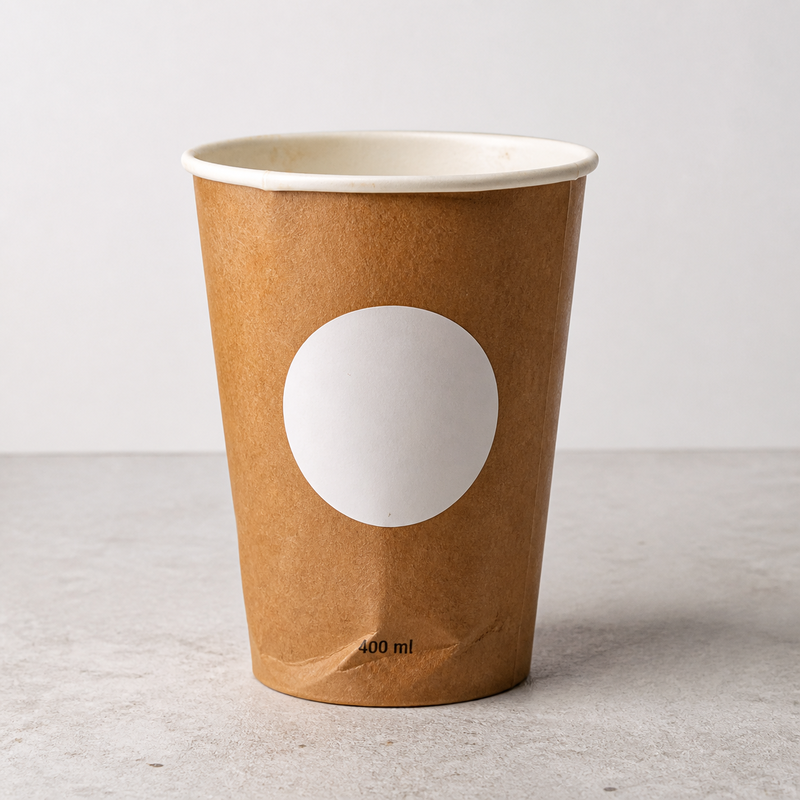
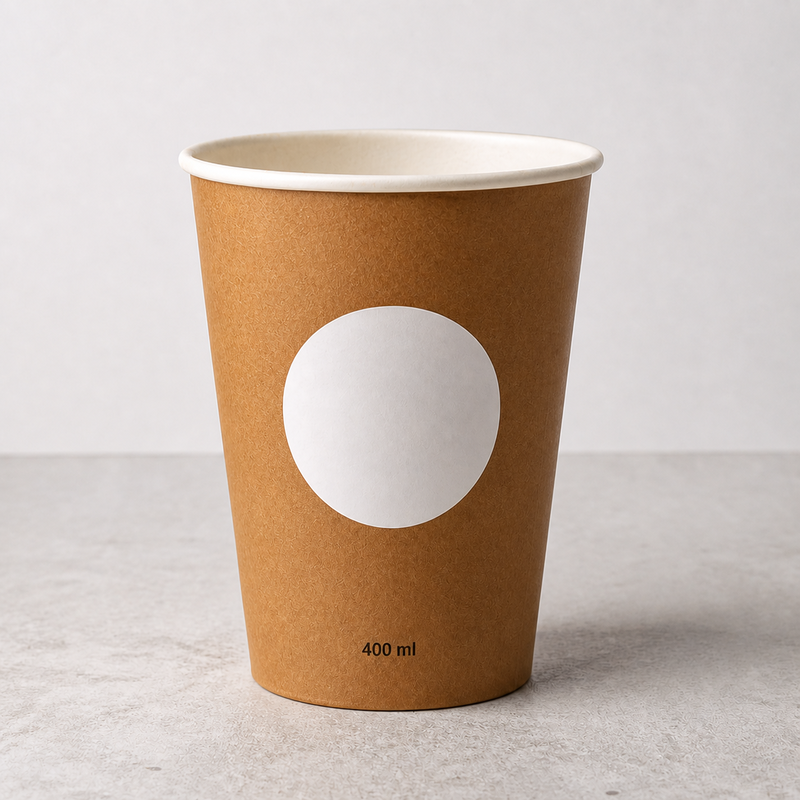
Обновить модель аккаунта и фото для этапа 1

diff --git a/docs/mvp/03-seller-journey.md b/docs/mvp/03-seller-journey.md
@@ -1,16 +1,18 @@
 # Seller Journey — путь производителя
 
-Версия: 1.1 · Дата: 26 августа 2026 · Статус: утверждено (обновлено под план v1.5)
+Версия: 1.2 · Дата: 27 августа 2026 · Статус: утверждено (обновлено под план v1.6)
 
 Производитель — российское юрлицо или ИП с производственной площадкой на территории РФ. Он заполняет Capability Passport, отвечает на подходящие запросы и видит персональные рыночные возможности.
 
-## Шаг 1. Регистрация и вход
+## Шаг 1. Единый аккаунт и режим «Продаю»
 
-Производитель регистрируется с ролью «Производитель».
+Пользователь входит в тот же аккаунт, который может использовать для закупок, включает разрешение `seller` и выбирает режим **«Продаю»**. Второй аккаунт и отдельная регистрация производителя не требуются. Разрешения `buyer` и `seller` могут действовать одновременно.
 
 ## Шаг 2. Профиль компании
 
-Заполняет простой профиль: название, российские реквизиты (ИНН, ОГРН/ОГРНИП, КПП), адрес производственной площадки, регион.
+Заполняет общий профиль компании: название, российские реквизиты (ИНН, ОГРН/ОГРНИП, КПП), юридический адрес, а также производственную часть — адрес площадки и регион. ФИО, email и телефон относятся к аккаунту представителя и не дублируются в данных компании.
+
+До статуса компании `verified` пользователь может подготовить профиль, товары и предложения как черновики. Публикация, подтверждение мощности, резерва и сделки доступны только после ручной проверки синтетических данных администратором.
 
 ## Шаг 3. Товары и характеристики
 

diff --git a/docs/mvp/01-mvp-boundaries.md b/docs/mvp/01-mvp-boundaries.md
@@ -1,6 +1,6 @@
 # Границы MVP
 
-Версия: 1.1 · Дата: 26 августа 2026 · Статус: утверждено (обновлено под план v1.5)
+Версия: 1.2 · Дата: 27 августа 2026 · Статус: утверждено (обновлено под план v1.6)
 
 ## 1. Единственная товарная категория для демо
 
@@ -39,7 +39,11 @@
 
 ## 4. Входит в MVP
 
-- регистрация и вход с ролями «Покупатель», «Производитель», «Администратор»;
+- единый аккаунт пользователя с ФИО, email, хешем пароля, необязательным телефоном и статусом `active` или `blocked`;
+- отдельный профиль российской компании или ИП со статусом проверки `draft`, `pending_review`, `verified` или `rejected`;
+- разрешения `buyer` и `seller`, которые можно включить одновременно, и переключатель режимов «Покупаю / Продаю» без повторной регистрации;
+- отдельное служебное разрешение `marketplace_admin`, которое не выбирается при обычной регистрации;
+- подготовка черновиков до проверки компании и публикация потребностей, товаров и предложений только после статуса `verified`;
 - витрина карточек товаров и предложений производителей;
 - создание потребности обычным языком и единая зона загрузки материалов;
 - локальная расшифровка голоса, OCR фото и документов;
@@ -97,3 +101,4 @@
 | Малый покупатель ниже MOQ | 5 000 шт. против MOQ 50 000 шт. |
 | Совместимая потребность для объединения | 45 000 шт. (итого партия 50 000 шт.) |
 | Число сценариев сбоя | 3 (N-1, N-2, дефицит резерва) + проверка выхода участника коалиции |
+| Модель учётной записи | один аккаунт, отдельная компания, разрешения `buyer`/`seller` и переключатель «Покупаю / Продаю» |

diff --git a/docs/mvp/06-prototype-ready-criteria.md b/docs/mvp/06-prototype-ready-criteria.md
@@ -1,6 +1,6 @@
 # Критерии «прототип готов»
 
-Версия: 1.1 · Дата: 26 августа 2026 · Статус: утверждено (обновлено под план v1.5)
+Версия: 1.2 · Дата: 27 августа 2026 · Статус: утверждено (обновлено под план v1.6)
 
 Прототип считается готовым к конкурсной подаче, если выполняются все перечисленные критерии. Критерии проверяются на сквозном демонстрационном сценарии, а не на отдельных изолированных экранах.
 
@@ -8,9 +8,9 @@
 
 1. Прототип запускается на новой машине по README одной командой (Docker Compose), без ручного исправления кода.
 2. Все контейнеры проходят health check.
-3. Покупатель, производитель и администратор могут войти под своими ролями.
-4. Покупатель проходит путь от загрузки «улик» до подтверждения сделки.
-5. Полная демонстрация занимает 4–6 минут.
+3. Пользователь регистрирует единый аккаунт с ФИО, создаёт или заполняет компанию, включает разрешения `buyer` и `seller` и переключается между режимами «Покупаю / Продаю» без повторной регистрации; `marketplace_admin` нельзя выбрать самостоятельно.
+4. До проверки компании пользователь может подготовить черновики, но не публиковать их; после ручного статуса `verified` он проходит путь покупателя от загрузки «улик» до подтверждения сделки и может создать карточку товара в режиме «Продаю».
+5. Состояния аккаунта, разрешения и статус проверки компании сохраняются между входами; полная демонстрация занимает 4–6 минут.
 
 ## Работа агента-расследователя
 

diff --git a/docs/mvp/04-admin-demo.md b/docs/mvp/04-admin-demo.md
@@ -1,6 +1,6 @@
 # Администраторская демонстрация
 
-Версия: 1.1 · Дата: 26 августа 2026 · Статус: утверждено (обновлено под план v1.5)
+Версия: 1.2 · Дата: 27 августа 2026 · Статус: утверждено (обновлено под план v1.6)
 
 Администраторская часть демонстрирует, что происходит «под капотом», и управляет тестовым окружением. Это важно для жюри конкурса: показывается не только интерфейс, но и объяснимость и контроль системы.
 
@@ -8,9 +8,11 @@
 
 Кабинет администратора показывает состояние системы: запущенные сервисы, активные сделки, агентные процессы.
 
-## 2. Управление тестовыми пользователями и данными
+## 2. Управление аккаунтами, компаниями и тестовыми данными
 
-Администратор создаёт и сбрасывает синтетических пользователей, производителей, документы и сценарии перед демонстрацией.
+Администратор создаёт и сбрасывает синтетические аккаунты, компании, документы и сценарии перед демонстрацией. Он видит ФИО представителя, разрешения `buyer`/`seller`, статус аккаунта и отдельный статус проверки компании.
+
+Для демонстрационной проверки администратор вручную переводит компанию из `pending_review` в `verified` либо `rejected` с причиной. Разрешение `marketplace_admin` заранее выдаётся участникам команды и не доступно пользователю при обычной регистрации.
 
 ## 3. Запуск агентного сценария
 

diff --git a/docs/mvp/02-buyer-journey.md b/docs/mvp/02-buyer-journey.md
@@ -1,10 +1,16 @@
 # Buyer Journey — путь покупателя
 
-Версия: 1.1 · Дата: 26 августа 2026 · Статус: утверждено (обновлено под план v1.5)
+Версия: 1.2 · Дата: 27 августа 2026 · Статус: утверждено (обновлено под план v1.6)
 
 Покупатель не обязан знать название товара, артикул, отраслевые термины или классификацию. Он описывает задачу обычным языком и прикладывает «улики».
 
-## Шаг 1. Вход и главный экран
+## Шаг 1. Регистрация, компания и вход в режим «Покупаю»
+
+Пользователь создаёт единый аккаунт: указывает ФИО, email, пароль и при желании телефон. После входа он создаёт или заполняет профиль российской компании или ИП и включает разрешение `buyer`; при необходимости в том же аккаунте можно одновременно включить `seller`.
+
+До проверки компании пользователь может просматривать открытую витрину и готовить черновик потребности. Публикация потребности и подтверждение сделки становятся доступны после ручного перевода компании администратором в статус `verified`.
+
+Пользователь выбирает в кабинете режим **«Покупаю»**. Переключение в режим **«Продаю»** не создаёт второй аккаунт и не меняет компанию.
 
 Главный экран разделён на два понятных раздела:
 

diff --git a/docs/mvp/05-screens.md b/docs/mvp/05-screens.md
@@ -1,13 +1,13 @@
 # Утверждённый список экранов
 
-Версия: 1.1 · Дата: 26 августа 2026 · Статус: утверждено (обновлено под план v1.5)
+Версия: 1.2 · Дата: 27 августа 2026 · Статус: утверждено (обновлено под план v1.6)
 
 Правила UX: один экран — одно основное решение; максимум три основных действия; обычный русский язык; значения можно исправить вручную; последствия объясняются до подтверждения; критичные изменения требуют явного подтверждения.
 
 ## Общие
 
-1. Вход / регистрация
-2. Выбор роли (после входа, если ролей несколько)
+1. Вход / регистрация единого аккаунта (ФИО, email, пароль, необязательный телефон)
+2. Профиль и статус проверки компании; включение разрешений `buyer`/`seller`; переключатель «Покупаю / Продаю»
 
 ## Покупатель
 
@@ -61,7 +61,7 @@
 | # | Экран |
 | --- | --- |
 | 40 | Кабинет администратора (обзор) |
-| 41 | Управление тестовыми пользователями и данными |
+| 41 | Управление тестовыми аккаунтами и компаниями; ручная проверка компании (`pending_review` → `verified`/`rejected`) |
 | 42 | Запуск агентного сценария |
 | 43 | Просмотр взаимодействия агентов |
 | 44 | Журнал решений и источников данных |

diff --git a/packages/test-fixtures/buyer-evidence/photo/photo-description.md b/packages/test-fixtures/buyer-evidence/photo/photo-description.md
@@ -8,7 +8,7 @@
 - корпус крафтового (коричневого) цвета;
 - белый ободок сверху;
 - по центру — белый логотип: круг с надписью «LOGO»;
-- в нижней части корпуса частично видна маркировка «400 ml»;
+- в нижней части корпуса видна маркировка «400 ml»;
 - крышка отсутствует.
 
 Что должно извлечь зрение модели (ожидаемые визуальные признаки):
@@ -16,5 +16,5 @@
 - класс: бумажный стакан (одноразовая посуда);
 - цвет корпуса: крафтовый;
 - наличие печати/логотипа: есть, белого цвета;
-- маркировка объёма: «400 ml» (частично читаемая);
+- маркировка объёма: «400 ml» (читаемая);
 - точный материал и тип покрытия по фото не определяются (гипотеза, а не подтверждение).

diff --git a/docs/demo/buyer-evidence-kit.md b/docs/demo/buyer-evidence-kit.md
@@ -6,7 +6,7 @@
 
 | Материал | Файл | Что содержит |
 | --- | --- | --- |
-| Фото образца | `buyer-evidence/photo/sample-cup.png` | старый крафтовый стакан с белым логотипом, маркировка «400 ml» частично видна |
+| Фото образца | `buyer-evidence/photo/sample-cup.png` | целый крафтовый стакан с белым обезличенным логотипом и маркировкой «400 ml» |
 | Техническое задание | `buyer-evidence/tz-technical-specification.md` | требования: 400 мл, покрытие PE, полноцветная печать |
 | Старая накладная | `buyer-evidence/nakladnaya-previous-supplier.md` | прошлая поставка: 350 мл, покрытие PLA, печать 1+0 |
 | Голосовое сообщение | `buyer-evidence/voice-message.m4a` | аудиозапись: 120 000 шт., Москва, 10 дней, бюджет до 1,9 млн ₽ |

diff --git a/docs/mvp/README.md b/docs/mvp/README.md
@@ -1,6 +1,6 @@
 # Этап 1 — Границы MVP и пользовательские сценарии
 
-Материалы этого каталога фиксируют границы MVP, пути пользователей и критерии готовности прототипа.
+Материалы этого каталога фиксируют границы MVP, пути пользователей и критерии готовности прототипа. Пользователь работает через единый аккаунт и одну компанию, может одновременно иметь разрешения `buyer` и `seller` и переключаться между режимами «Покупаю / Продаю».
 
 | Документ | Содержание |
 | --- | --- |
